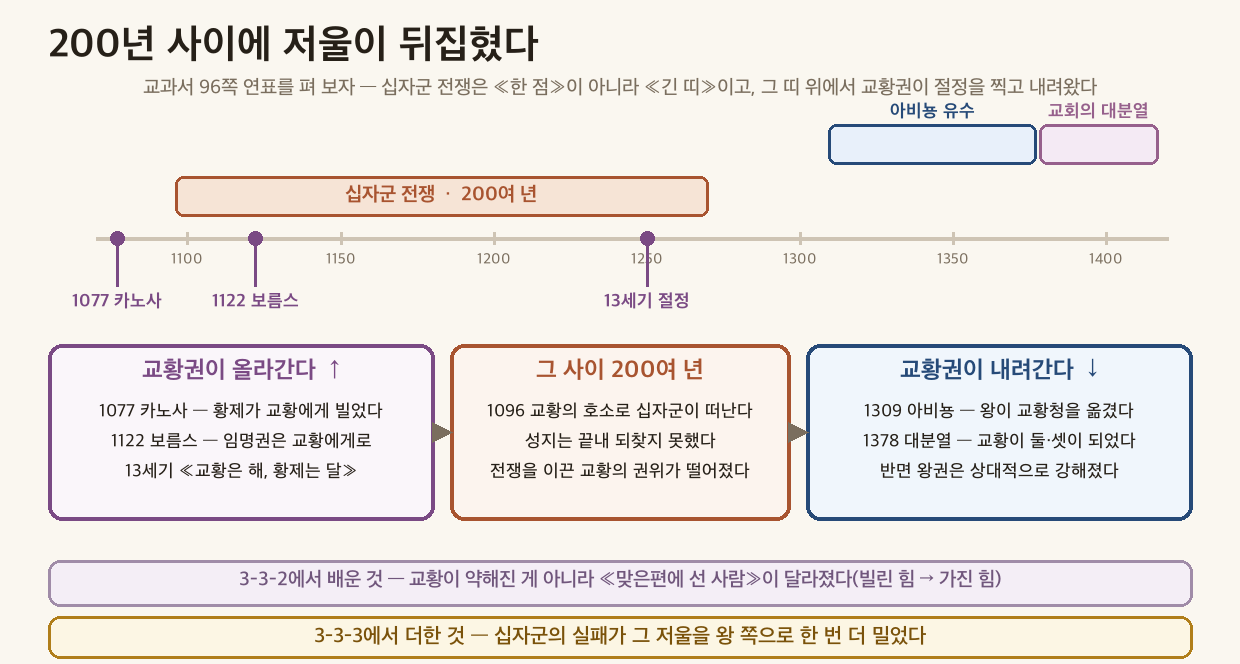
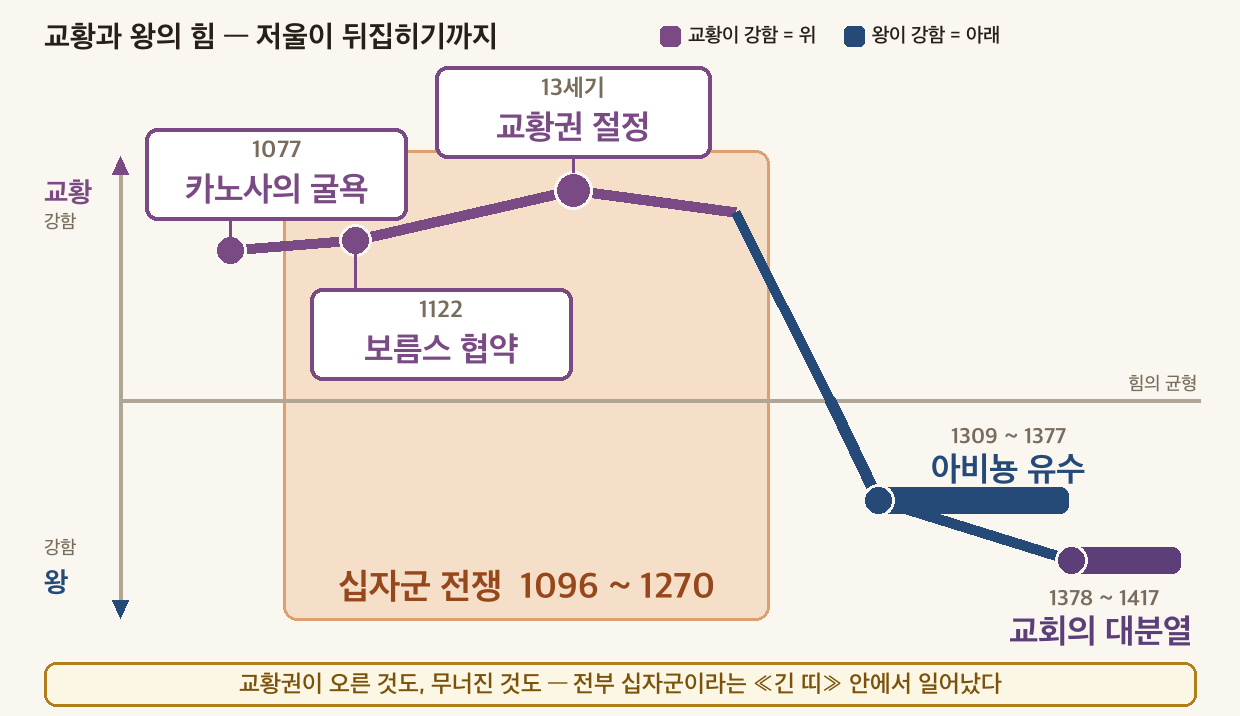
3-3-3 정리 도식 재설계 — 세로축을 「힘의 저울」로 (천대현 · Grok 설계)
"아비뇽·대분열 위치가 너무 위로 올라갔고, 흐름과 사건을 파악하기 어렵네.
 도식 잘 만드는 친구에게 맡겨봐."

🔴 1·2판이 실패한 이유는 "세로에 의미가 없었기" 때문이다. 가로 시간축 하나만 긋고
사건을 위아래로 흩어 놓았더니 하필 약해지는 사건(아비뇽·대분열)이 화면 "위"에
놓여 "올라간다"로 읽혔다. 배치가 논지와 정반대였다.

🔑 설계를 Grok(grok-4.5)에게 맡겼고 처방은 한 줄이었다 —
   "세로축을 힘의 저울로 쓰라. 위=교황이 강함, 아래=왕이 강함."
그러면 아비뇽·대분열은 자연히 아래로 가고, 사건을 잇는 한 개의 곡선이 산을 넘고
추락하는 모양이 되어 흐름이 한눈에 보인다. 십자군은 배경 띠로 깔아 "그 안에서
다 일어났다"를 만든다.

제작 중 겹침 3회 교정: 띠 라벨이 곡선과(→ 띠 하단) · 1077 카드가 세로축과(→ X0
230) · 아비뇽 라벨이 하강 곡선과(→ 두 줄로 좁힘).

🔴 교과서 슬롯도 같이 바꿔야 했다
새 도식이 「십자군 전쟁 1096 ~ 1270」을 크게 적어 놓아, 종전 슬롯("시작된 해와
끝난 해를 찾아 적자")의 답을 먼저 준다. → "전쟁이 벌어지는 동안 일어난 사건은?
그 사건은 교황에게 유리했나 불리했나?"로 교체. 연표를 봐야 알고(기간 안인가)
그림을 봐야 판단된다(유리/불리).
🔑 도식을 바꾸면 그 도식이 답을 주는 슬롯이 없는지 다시 봐야 한다 — 9/15 「네
   속마음」에 이어 두 번째다.

⚠ 사건 이름 34px = 폰 9.0px로 룰 -0.78 ②(11px)에 못 미친다. 카드를 더 키우면
   세로축 라벨과 물리므로 의도한 절충 — 읽어야 할 내용은 figcaption에 전부 적었다
   (룰 -0.83이 시키는 방향). 도식은 구조를, 캡션은 내용을 맡는다.

실측: 셋 다 빈단계 0 · 입담빈 1 · 교과서빈 2 · 이미지 8 · 빈칸 6 · OX 3 · CSS 균형 0
비율 0.577(상한 0.62)

Claude-Session: https://claude.ai/code/session_01WENst2cudxyR6rXxwWSCeM

diff --git a/worksheets/3-3-3_십자군전쟁_개념편.html b/worksheets/3-3-3_십자군전쟁_개념편.html
@@ -996,16 +996,16 @@ table:has(.ox-group) td:first-child { width: 46px; text-align: center; color: #6
 <figure class="ws-fig"><img src="images/3-3-3_열린길.png" alt="싸우면서 열린 길 — 동쪽에서 염료·비단·향신료가, 그리고 고전 문화·자연 과학·제지술이 들어왔다. 베네치아·제노바·피사가 번성했고 이베리아반도와 콘스탄티노폴리스가 창구가 되었다." loading="lazy"><figcaption>싸우면서 열린 길 — 동쪽에서 염료·비단·향신료가, 그리고 고전 문화·자연 과학·제지술이 들어왔다. 베네치아·제노바·피사가 번성했고 이베리아반도와 콘스탄티노폴리스가 창구가 되었다.</figcaption></figure>
 <blockquote>그리고 여기 심긴 씨앗이 두 차시 뒤에 열매를 맺어. 베네치아 상인들이 벌어들인 그 돈이 <strong>르네상스를 후원하는 돈</strong>이 되거든.</blockquote>
 <br>
-<h2>🧭 정리: 200년 사이에 저울이 뒤집혔다</h2>
+<h2>🧭 정리: 교황과 왕의 힘 — 저울이 뒤집히기까지</h2>
 <blockquote>📕 <strong>교과서 96쪽 연표</strong> 펴고 맞춰 보기 · 배정 시간 <strong>4분</strong></blockquote>
 <br>
 <p>지난 시간(3-3-2)에 배운 <strong>카노사의 굴욕</strong>과 <strong>아비뇽 유수</strong>, 그리고 오늘 배운 <strong>십자군 전쟁</strong>은 따로 떨어진 사건이 아니다. 세 사건을 한 줄에 놓으면 <strong>교황과 왕 사이의 저울이 어느 쪽으로 기울어 갔는지</strong>가 보인다.</p>
 <br>
-<figure class="ws-fig"><img src="images/3-3-3_세사건연표.png" alt="200년 사이에 저울이 뒤집혔다 — 교과서 96쪽 연표를 그림으로 옮겼다. 십자군 전쟁은 한 점이 아니라 **긴 띠**이고, 그 띠 위에서 교황권이 13세기에 절정을 찍고 내려온다. 왼쪽 = 교황권이 올라간 두 사건(1077 카노사·1122 보름스), 가운데 = 그 사이 200여 년의 십자군, 오른쪽 = 교황권이 내려간 두 사건(1309 아비뇽·1378 대분열)." loading="lazy"><figcaption>200년 사이에 저울이 뒤집혔다 — 교과서 96쪽 연표를 그림으로 옮겼다. 십자군 전쟁은 한 점이 아니라 <strong>긴 띠</strong>이고, 그 띠 위에서 교황권이 13세기에 절정을 찍고 내려온다. 왼쪽 = 교황권이 올라간 두 사건(1077 카노사·1122 보름스), 가운데 = 그 사이 200여 년의 십자군, 오른쪽 = 교황권이 내려간 두 사건(1309 아비뇽·1378 대분열).</figcaption></figure>
+<figure class="ws-fig"><img src="images/3-3-3_세사건연표.png" alt="교황과 왕의 힘, 저울이 뒤집히기까지 — **세로가 힘의 저울이다.** 위로 갈수록 교황이 강하고, 아래로 갈수록 왕이 강하다. 가로는 시간. 굵은 선을 눈으로 따라가면 1077 카노사에서 올라가 13세기에 가장 높고, 그 뒤 1309 아비뇽·1378 대분열로 **균형선 아래까지 떨어진다.** 주황 띠는 십자군 전쟁(1096~1270)이고, 올라간 것도 무너진 것도 전부 그 띠 안이다." loading="lazy"><figcaption>교황과 왕의 힘, 저울이 뒤집히기까지 — <strong>세로가 힘의 저울이다.</strong> 위로 갈수록 교황이 강하고, 아래로 갈수록 왕이 강하다. 가로는 시간. 굵은 선을 눈으로 따라가면 1077 카노사에서 올라가 13세기에 가장 높고, 그 뒤 1309 아비뇽·1378 대분열로 <strong>균형선 아래까지 떨어진다.</strong> 주황 띠는 십자군 전쟁(1096~1270)이고, 올라간 것도 무너진 것도 전부 그 띠 안이다.</figcaption></figure>
 <br>
-<blockquote>🎙 여기서 놓치기 쉬운 게 하나 있어. <strong>십자군 전쟁은 「점」이 아니라 「띠」야.</strong> 1096년에 시작해서 200여 년을 갔거든. 그러니까 교황권이 절정에 이른 13세기도, 그 뒤 무너지기 시작한 것도 <strong>전부 십자군이 진행되는 동안</strong> 벌어진 일이야. 교황이 불러 모은 전쟁이 교황 자신의 힘을 깎아 내린 셈이지.</blockquote>
+<blockquote>🎙 <strong>이 그림은 세로가 「힘의 저울」이야.</strong> 위로 갈수록 교황이 세고, 아래로 갈수록 왕이 세. 굵은 선을 손가락으로 따라가 봐 — 카노사에서 올라가서 13세기에 가장 높았다가, <strong>아비뇽에서 균형선 아래로 떨어져.</strong> 그리고 하나 더 놓치기 쉬운 게 있어. <strong>십자군 전쟁은 「점」이 아니라 「띠」야.</strong> 1096년에 시작해 200여 년을 갔거든. 그러니까 교황권이 절정에 이른 것도, 그 뒤 무너지기 시작한 것도 <strong>전부 저 주황 띠 안에서</strong> 벌어진 일이야. 교황이 불러 모은 전쟁이 교황 자신의 힘을 깎아 내린 셈이지.</blockquote>
 <br>
-<div class="ws-tb"><div class="ws-tb-tag">📕 교과서 96쪽 · 연표</div><div class="ws-tb-ask">연표에서 <strong>십자군 전쟁이 시작된 해와 끝난 해</strong>를 찾아 적자. 그리고 그 사이에 <strong>어떤 사건들이 들어 있는지</strong> 연표에서 찾아 함께 적자. <input type="text" class="blank-input activity-input no-score" data-id="act-5" data-label="교과서 96쪽에서 찾기 — 연표에서 십자군 전쟁이 시작된 해와 끝난 해를 찾아 적자. 그리고 그" style="width:460px" placeholder=""></div></div>
+<div class="ws-tb"><div class="ws-tb-tag">📕 교과서 96쪽 · 연표</div><div class="ws-tb-ask">연표에서 <strong>십자군 전쟁이 벌어지는 «동안»에 일어난 사건</strong>을 찾아 적자. 그리고 그 사건은 <strong>교황에게 유리했을까, 불리했을까?</strong> 위 그림의 굵은 선이 그때 어느 쪽으로 갔는지 보고 판단해 쓰자. <input type="text" class="blank-input activity-input no-score" data-id="act-5" data-label="교과서 96쪽에서 찾기 — 연표에서 십자군 전쟁이 벌어지는 «동안»에 일어난 사건을 찾아 적자." style="width:460px" placeholder=""></div></div>
 <br>
 <h2>✏ 활동 1 — 속마음 맞히기</h2>
 <blockquote>아래 말이 누구의 속마음일지 연결해 보자. (교황 / 기사 / 상인 / 농노)</blockquote>

diff --git a/worksheets/3-3-3_십자군전쟁_개념편_명시형.html b/worksheets/3-3-3_십자군전쟁_개념편_명시형.html
@@ -1006,16 +1006,16 @@ table:has(.ox-group) td:first-child { width: 46px; text-align: center; color: #6
 <br>
 <figure class="ws-fig"><img src="images/3-3-3_열린길.png" alt="싸우면서 열린 길 — 동쪽에서 염료·비단·향신료가, 그리고 고전 문화·자연 과학·제지술이 들어왔다. 베네치아·제노바·피사가 번성했고 이베리아반도와 콘스탄티노폴리스가 창구가 되었다." loading="lazy"><figcaption>싸우면서 열린 길 — 동쪽에서 염료·비단·향신료가, 그리고 고전 문화·자연 과학·제지술이 들어왔다. 베네치아·제노바·피사가 번성했고 이베리아반도와 콘스탄티노폴리스가 창구가 되었다.</figcaption></figure>
 <br>
-<h2>🧭 정리: 200년 사이에 저울이 뒤집혔다</h2>
+<h2>🧭 정리: 교황과 왕의 힘 — 저울이 뒤집히기까지</h2>
 <blockquote>📕 <strong>교과서 96쪽 연표</strong> 펴고 맞춰 보기 · 배정 시간 <strong>4분</strong></blockquote>
 <br>
 <p>지난 시간(3-3-2)에 배운 <strong>카노사의 굴욕</strong>과 <strong>아비뇽 유수</strong>, 그리고 오늘 배운 <strong>십자군 전쟁</strong>은 따로 떨어진 사건이 아니다. 세 사건을 한 줄에 놓으면 <strong>교황과 왕 사이의 저울이 어느 쪽으로 기울어 갔는지</strong>가 보인다.</p>
 <br>
-<figure class="ws-fig"><img src="images/3-3-3_세사건연표.png" alt="200년 사이에 저울이 뒤집혔다 — 교과서 96쪽 연표를 그림으로 옮겼다. 십자군 전쟁은 한 점이 아니라 **긴 띠**이고, 그 띠 위에서 교황권이 13세기에 절정을 찍고 내려온다. 왼쪽 = 교황권이 올라간 두 사건(1077 카노사·1122 보름스), 가운데 = 그 사이 200여 년의 십자군, 오른쪽 = 교황권이 내려간 두 사건(1309 아비뇽·1378 대분열)." loading="lazy"><figcaption>200년 사이에 저울이 뒤집혔다 — 교과서 96쪽 연표를 그림으로 옮겼다. 십자군 전쟁은 한 점이 아니라 <strong>긴 띠</strong>이고, 그 띠 위에서 교황권이 13세기에 절정을 찍고 내려온다. 왼쪽 = 교황권이 올라간 두 사건(1077 카노사·1122 보름스), 가운데 = 그 사이 200여 년의 십자군, 오른쪽 = 교황권이 내려간 두 사건(1309 아비뇽·1378 대분열).</figcaption></figure>
+<figure class="ws-fig"><img src="images/3-3-3_세사건연표.png" alt="교황과 왕의 힘, 저울이 뒤집히기까지 — **세로가 힘의 저울이다.** 위로 갈수록 교황이 강하고, 아래로 갈수록 왕이 강하다. 가로는 시간. 굵은 선을 눈으로 따라가면 1077 카노사에서 올라가 13세기에 가장 높고, 그 뒤 1309 아비뇽·1378 대분열로 **균형선 아래까지 떨어진다.** 주황 띠는 십자군 전쟁(1096~1270)이고, 올라간 것도 무너진 것도 전부 그 띠 안이다." loading="lazy"><figcaption>교황과 왕의 힘, 저울이 뒤집히기까지 — <strong>세로가 힘의 저울이다.</strong> 위로 갈수록 교황이 강하고, 아래로 갈수록 왕이 강하다. 가로는 시간. 굵은 선을 눈으로 따라가면 1077 카노사에서 올라가 13세기에 가장 높고, 그 뒤 1309 아비뇽·1378 대분열로 <strong>균형선 아래까지 떨어진다.</strong> 주황 띠는 십자군 전쟁(1096~1270)이고, 올라간 것도 무너진 것도 전부 그 띠 안이다.</figcaption></figure>
 <br>
-<blockquote>🎙 여기서 놓치기 쉬운 게 하나 있어. <strong>십자군 전쟁은 「점」이 아니라 「띠」야.</strong> 1096년에 시작해서 200여 년을 갔거든. 그러니까 교황권이 절정에 이른 13세기도, 그 뒤 무너지기 시작한 것도 <strong>전부 십자군이 진행되는 동안</strong> 벌어진 일이야. 교황이 불러 모은 전쟁이 교황 자신의 힘을 깎아 내린 셈이지.</blockquote>
+<blockquote>🎙 <strong>이 그림은 세로가 「힘의 저울」이야.</strong> 위로 갈수록 교황이 세고, 아래로 갈수록 왕이 세. 굵은 선을 손가락으로 따라가 봐 — 카노사에서 올라가서 13세기에 가장 높았다가, <strong>아비뇽에서 균형선 아래로 떨어져.</strong> 그리고 하나 더 놓치기 쉬운 게 있어. <strong>십자군 전쟁은 「점」이 아니라 「띠」야.</strong> 1096년에 시작해 200여 년을 갔거든. 그러니까 교황권이 절정에 이른 것도, 그 뒤 무너지기 시작한 것도 <strong>전부 저 주황 띠 안에서</strong> 벌어진 일이야. 교황이 불러 모은 전쟁이 교황 자신의 힘을 깎아 내린 셈이지.</blockquote>
 <br>
-<div class="ws-tb"><div class="ws-tb-tag">📕 교과서 96쪽 · 연표</div><div class="ws-tb-ask">연표에서 <strong>십자군 전쟁이 시작된 해와 끝난 해</strong>를 찾아 적자. 그리고 그 사이에 <strong>어떤 사건들이 들어 있는지</strong> 연표에서 찾아 함께 적자. <input type="text" class="blank-input activity-input no-score" data-id="act-5" data-label="교과서 96쪽에서 찾기 — 연표에서 십자군 전쟁이 시작된 해와 끝난 해를 찾아 적자. 그리고 그" style="width:460px" placeholder=""></div></div>
+<div class="ws-tb"><div class="ws-tb-tag">📕 교과서 96쪽 · 연표</div><div class="ws-tb-ask">연표에서 <strong>십자군 전쟁이 벌어지는 «동안»에 일어난 사건</strong>을 찾아 적자. 그리고 그 사건은 <strong>교황에게 유리했을까, 불리했을까?</strong> 위 그림의 굵은 선이 그때 어느 쪽으로 갔는지 보고 판단해 쓰자. <input type="text" class="blank-input activity-input no-score" data-id="act-5" data-label="교과서 96쪽에서 찾기 — 연표에서 십자군 전쟁이 벌어지는 «동안»에 일어난 사건을 찾아 적자." style="width:460px" placeholder=""></div></div>
 <br>
 <h2>✏ 활동 1 — 속마음 맞히기</h2>
 <blockquote>아래 말이 누구의 속마음일지 연결해 보자. (교황 / 기사 / 상인 / 농노)</blockquote>

diff --git a/worksheets/3-3-3_십자군전쟁_개념편_탐구형.html b/worksheets/3-3-3_십자군전쟁_개념편_탐구형.html
@@ -993,16 +993,16 @@ table:has(.ox-group) td:first-child { width: 46px; text-align: center; color: #6
 <br>
 <figure class="ws-fig"><img src="images/3-3-3_열린길.png" alt="싸우면서 열린 길 — 동쪽에서 염료·비단·향신료가, 그리고 고전 문화·자연 과학·제지술이 들어왔다. 베네치아·제노바·피사가 번성했고 이베리아반도와 콘스탄티노폴리스가 창구가 되었다." loading="lazy"><figcaption>싸우면서 열린 길 — 동쪽에서 염료·비단·향신료가, 그리고 고전 문화·자연 과학·제지술이 들어왔다. 베네치아·제노바·피사가 번성했고 이베리아반도와 콘스탄티노폴리스가 창구가 되었다.</figcaption></figure>
 <br>
-<h2>🧭 정리: 200년 사이에 저울이 뒤집혔다</h2>
+<h2>🧭 정리: 교황과 왕의 힘 — 저울이 뒤집히기까지</h2>
 <blockquote>📕 <strong>교과서 96쪽 연표</strong> 펴고 맞춰 보기 · 배정 시간 <strong>4분</strong></blockquote>
 <br>
 <p>지난 시간(3-3-2)에 배운 <strong>카노사의 굴욕</strong>과 <strong>아비뇽 유수</strong>, 그리고 오늘 배운 <strong>십자군 전쟁</strong>은 따로 떨어진 사건이 아니다. 세 사건을 한 줄에 놓으면 <strong>교황과 왕 사이의 저울이 어느 쪽으로 기울어 갔는지</strong>가 보인다.</p>
 <br>
-<figure class="ws-fig"><img src="images/3-3-3_세사건연표.png" alt="200년 사이에 저울이 뒤집혔다 — 교과서 96쪽 연표를 그림으로 옮겼다. 십자군 전쟁은 한 점이 아니라 **긴 띠**이고, 그 띠 위에서 교황권이 13세기에 절정을 찍고 내려온다. 왼쪽 = 교황권이 올라간 두 사건(1077 카노사·1122 보름스), 가운데 = 그 사이 200여 년의 십자군, 오른쪽 = 교황권이 내려간 두 사건(1309 아비뇽·1378 대분열)." loading="lazy"><figcaption>200년 사이에 저울이 뒤집혔다 — 교과서 96쪽 연표를 그림으로 옮겼다. 십자군 전쟁은 한 점이 아니라 <strong>긴 띠</strong>이고, 그 띠 위에서 교황권이 13세기에 절정을 찍고 내려온다. 왼쪽 = 교황권이 올라간 두 사건(1077 카노사·1122 보름스), 가운데 = 그 사이 200여 년의 십자군, 오른쪽 = 교황권이 내려간 두 사건(1309 아비뇽·1378 대분열).</figcaption></figure>
+<figure class="ws-fig"><img src="images/3-3-3_세사건연표.png" alt="교황과 왕의 힘, 저울이 뒤집히기까지 — **세로가 힘의 저울이다.** 위로 갈수록 교황이 강하고, 아래로 갈수록 왕이 강하다. 가로는 시간. 굵은 선을 눈으로 따라가면 1077 카노사에서 올라가 13세기에 가장 높고, 그 뒤 1309 아비뇽·1378 대분열로 **균형선 아래까지 떨어진다.** 주황 띠는 십자군 전쟁(1096~1270)이고, 올라간 것도 무너진 것도 전부 그 띠 안이다." loading="lazy"><figcaption>교황과 왕의 힘, 저울이 뒤집히기까지 — <strong>세로가 힘의 저울이다.</strong> 위로 갈수록 교황이 강하고, 아래로 갈수록 왕이 강하다. 가로는 시간. 굵은 선을 눈으로 따라가면 1077 카노사에서 올라가 13세기에 가장 높고, 그 뒤 1309 아비뇽·1378 대분열로 <strong>균형선 아래까지 떨어진다.</strong> 주황 띠는 십자군 전쟁(1096~1270)이고, 올라간 것도 무너진 것도 전부 그 띠 안이다.</figcaption></figure>
 <br>
-<blockquote>🎙 여기서 놓치기 쉬운 게 하나 있어. <strong>십자군 전쟁은 「점」이 아니라 「띠」야.</strong> 1096년에 시작해서 200여 년을 갔거든. 그러니까 교황권이 절정에 이른 13세기도, 그 뒤 무너지기 시작한 것도 <strong>전부 십자군이 진행되는 동안</strong> 벌어진 일이야. 교황이 불러 모은 전쟁이 교황 자신의 힘을 깎아 내린 셈이지.</blockquote>
+<blockquote>🎙 <strong>이 그림은 세로가 「힘의 저울」이야.</strong> 위로 갈수록 교황이 세고, 아래로 갈수록 왕이 세. 굵은 선을 손가락으로 따라가 봐 — 카노사에서 올라가서 13세기에 가장 높았다가, <strong>아비뇽에서 균형선 아래로 떨어져.</strong> 그리고 하나 더 놓치기 쉬운 게 있어. <strong>십자군 전쟁은 「점」이 아니라 「띠」야.</strong> 1096년에 시작해 200여 년을 갔거든. 그러니까 교황권이 절정에 이른 것도, 그 뒤 무너지기 시작한 것도 <strong>전부 저 주황 띠 안에서</strong> 벌어진 일이야. 교황이 불러 모은 전쟁이 교황 자신의 힘을 깎아 내린 셈이지.</blockquote>
 <br>
-<div class="ws-tb"><div class="ws-tb-tag">📕 교과서 96쪽 · 연표</div><div class="ws-tb-ask">연표에서 <strong>십자군 전쟁이 시작된 해와 끝난 해</strong>를 찾아 적자. 그리고 그 사이에 <strong>어떤 사건들이 들어 있는지</strong> 연표에서 찾아 함께 적자. <input type="text" class="blank-input activity-input no-score" data-id="act-5" data-label="교과서 96쪽에서 찾기 — 연표에서 십자군 전쟁이 시작된 해와 끝난 해를 찾아 적자. 그리고 그" style="width:460px" placeholder=""></div></div>
+<div class="ws-tb"><div class="ws-tb-tag">📕 교과서 96쪽 · 연표</div><div class="ws-tb-ask">연표에서 <strong>십자군 전쟁이 벌어지는 «동안»에 일어난 사건</strong>을 찾아 적자. 그리고 그 사건은 <strong>교황에게 유리했을까, 불리했을까?</strong> 위 그림의 굵은 선이 그때 어느 쪽으로 갔는지 보고 판단해 쓰자. <input type="text" class="blank-input activity-input no-score" data-id="act-5" data-label="교과서 96쪽에서 찾기 — 연표에서 십자군 전쟁이 벌어지는 «동안»에 일어난 사건을 찾아 적자." style="width:460px" placeholder=""></div></div>
 <br>
 <h2>✏ 활동 1 — 속마음 맞히기</h2>
 <blockquote>아래 말이 누구의 속마음일지 연결해 보자. (교황 / 기사 / 상인 / 농노)</blockquote>
